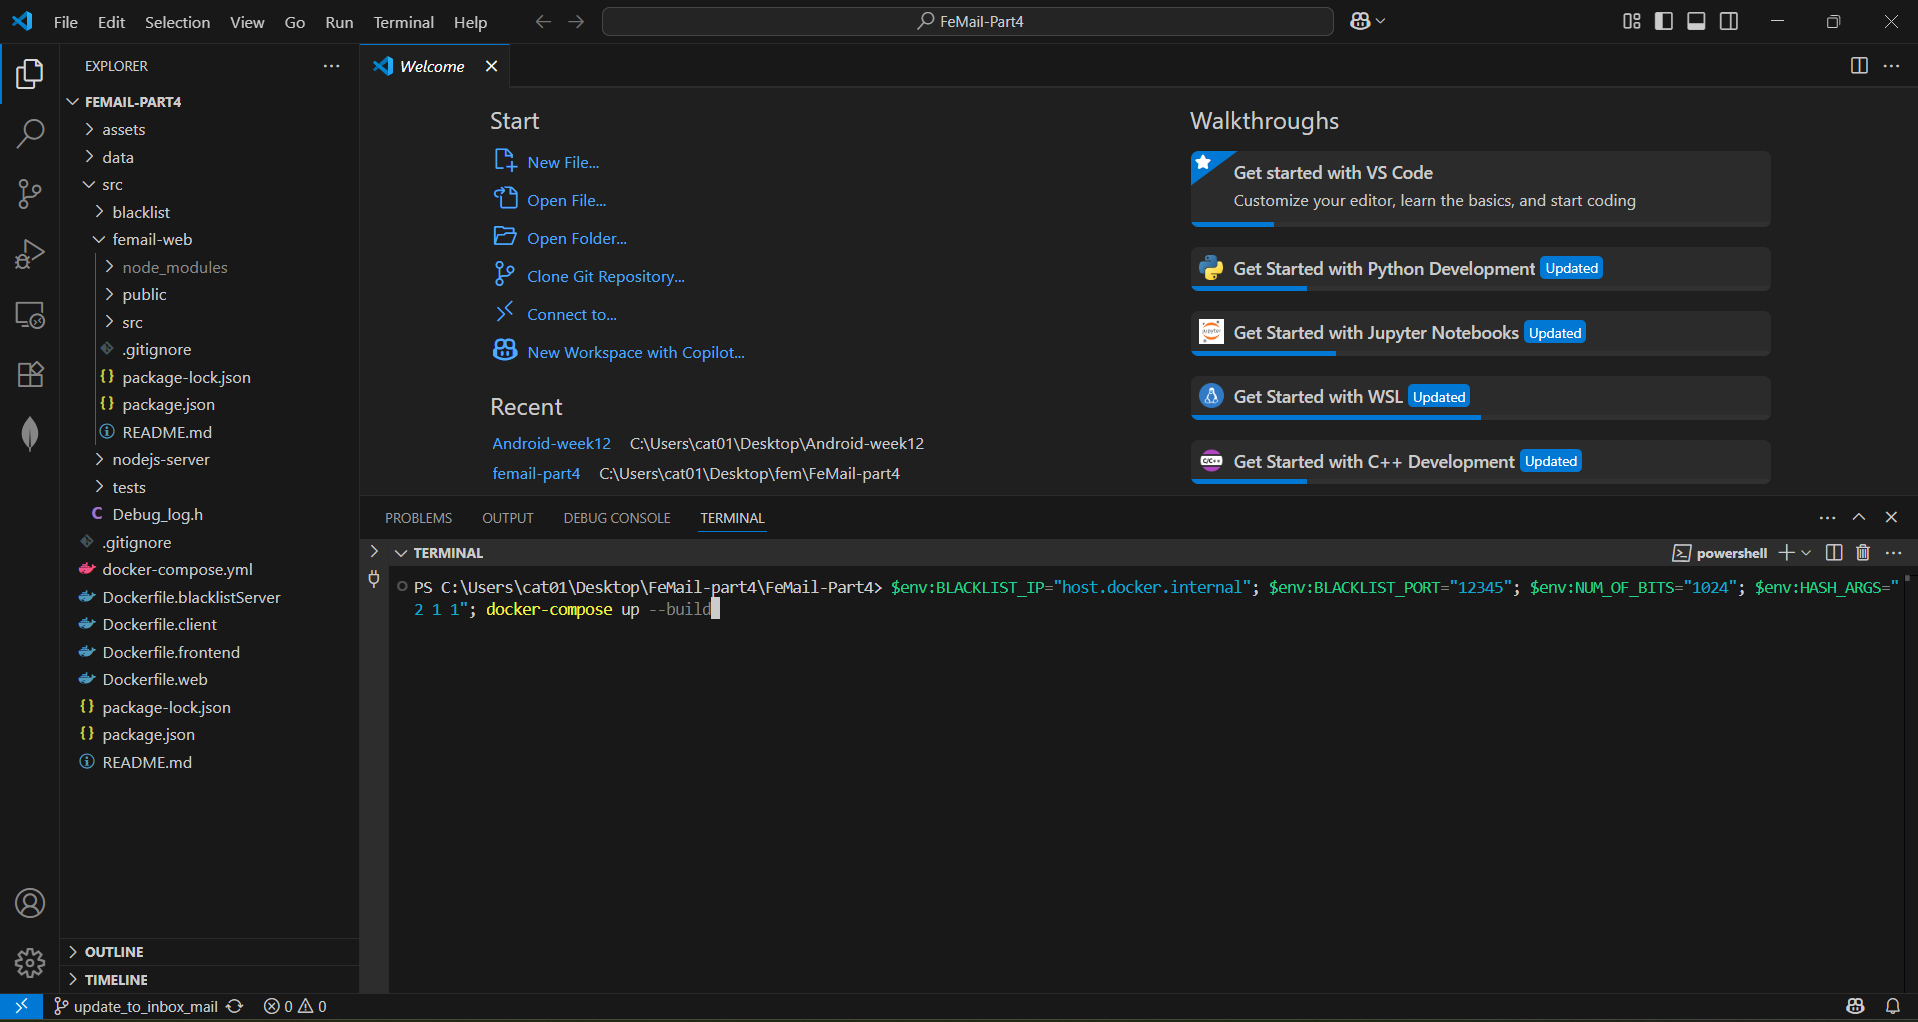
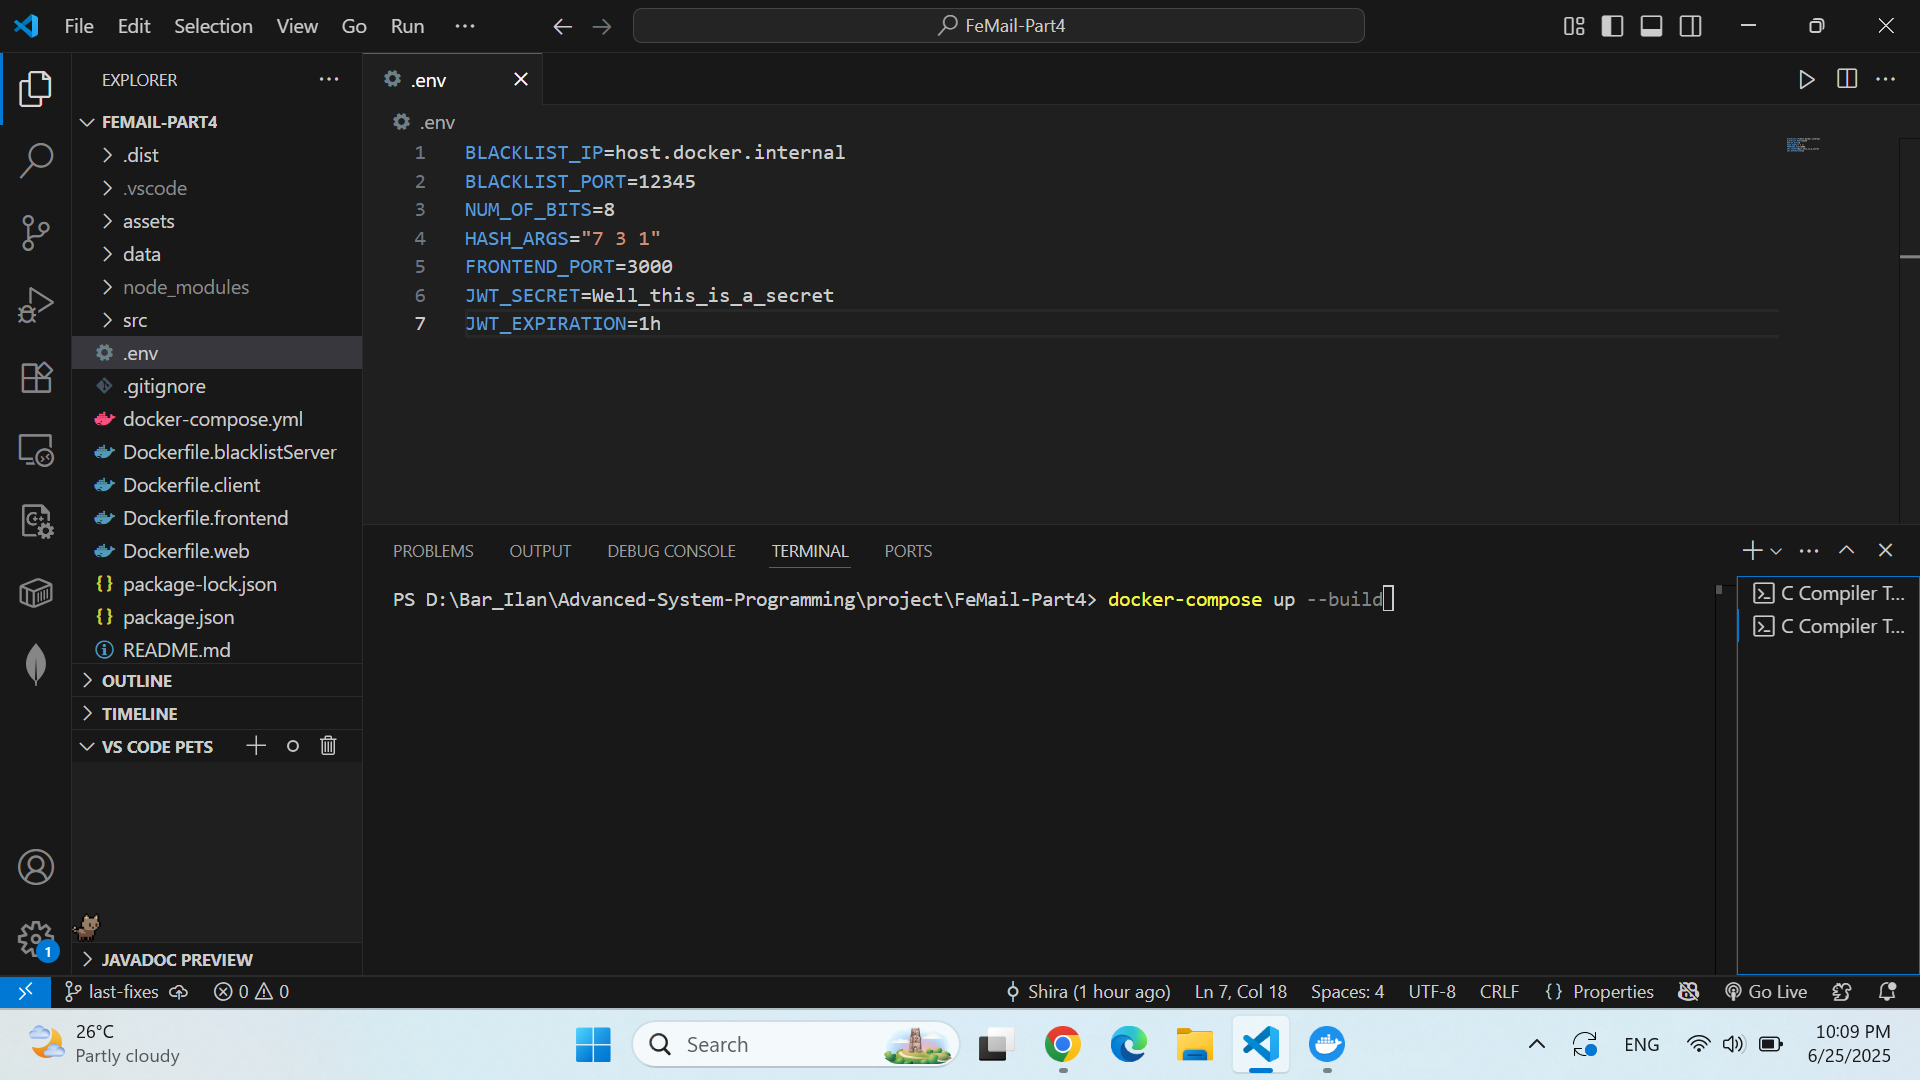
copy files from part 4

diff --git a/src/femail-web/src/popUps/CreateLabel/CreateLabel.js b/src/femail-web/src/popUps/CreateLabel/CreateLabel.js
@@ -4,7 +4,7 @@ import '../../components/PopUp/CreateEditLabel.css';
 import Button from '../../components/Button/Button';
 import { postLabel } from "../../hooks/useLabels";
 
-const CreateLabel = ({ show, onClose, setLabels, labels }) => {
+const CreateLabel = ({ show, onClose, setLabels, labels, onMoveTo = null }) => {
     const token = localStorage.getItem("token");
     const userId = localStorage.getItem("userId");
     const [labelName, setLabelName] = useState("");
@@ -14,6 +14,24 @@ const CreateLabel = ({ show, onClose, setLabels, labels }) => {
         if (!Array.isArray(labels)) return false;
         return labels.some(label => label.name.toLowerCase() === labelName.trim().toLowerCase());
     }, []);
+
+    const handleCreate = async () => {
+        const newLabel = await postLabel(
+            token,
+            userId,
+            setLabels,
+            labelName,
+            setLabelName,
+            setError
+        );
+        console.log(onMoveTo);
+        console.log(newLabel?.id);
+        if (onMoveTo && newLabel?.id) {
+            onMoveTo(newLabel.id);
+        }
+        onClose();
+    };
+
 
     const isDisabled = useMemo(() => {
         return !labelName.trim() || labelExists(labels, labelName);
@@ -49,7 +67,7 @@ const CreateLabel = ({ show, onClose, setLabels, labels }) => {
                         variant = 'grey'>
                         Cancel
                     </Button>
-                    <Button onClick={() => {postLabel(token, userId, setLabels, labelName, setLabelName, setError); onClose();}}
+                    <Button onClick={() => {handleCreate()}}
                         variant = 'blue'
                         disabled={isDisabled}>
                         Create

diff --git a/src/nodejs-server/app.js b/src/nodejs-server/app.js
@@ -6,7 +6,7 @@ const cors = require('cors');
 
 // Get user arguments
 const args = process.argv.slice(2);
-const PORT = 8080;
+const port = args[0];
 
 // Middleware to parse incoming JSON requests with increased size limit
 app.use(express.json({ limit: '50mb' }));
@@ -31,4 +31,4 @@ app.use('/api/blacklist', blacklistRoutes);  // For blacklist-related endpoints
 app.use('/uploads', express.static(path.join(__dirname, 'uploads')));
 
 // Start the server and listen for requests
-app.listen(PORT, () => {});
+app.listen(port, () => {});

diff --git a/src/femail-web/src/components/MailActionBar/MailActionBar.js b/src/femail-web/src/components/MailActionBar/MailActionBar.js
@@ -143,7 +143,7 @@ const MailActionBar = ({
           </div>
         )}
       </div>
-      <CreateLabel show={showCreateLabel} onClose={() => setCreateLabel(false)} setLabels={setLabels} labels={labels} />
+      <CreateLabel show={showCreateLabel} onClose={() => setCreateLabel(false)} setLabels={setLabels} labels={labels} onMoveTo={onMoveTo} />
     </div>
   );
 };

diff --git a/src/femail-web/src/hooks/useLabels.js b/src/femail-web/src/hooks/useLabels.js
@@ -42,6 +42,7 @@ export const postLabel = async (token, userId, setLabels, labelName, setLabelNam
     if (id) {
       setLabels((prev) => [...prev, {id: id, name: labelName}]);
       setLabelName("");
+      return { id };
     }
     else
       setError("error");

diff --git a/README.md b/README.md
@@ -62,48 +62,34 @@ The frontend is entirely dynamic and **does not use any hardcoded content**. All
 
 ## Run the Project (starting in FeMail-Part4 directory)
 1. Open Docker Desktop in your computer
-2. Run the app using docker-compose
-    * If the blacklist server is on localhost:
-      * On Linux:
-        ```bash
-        BLACKLIST_IP=host.docker.internal BLACKLIST_PORT=<blacklist_port> NUM_OF_BITS=<num_of_bits> HASH_ARGS="<hash1> <hash2> ..." docker-compose up --build
-        ```
-      * On Windows:
-        ```bash
-        $env:BLACKLIST_IP="host.docker.internal"; $env:BLACKLIST_PORT="<blacklist_port>"; $env:NUM_OF_BITS="<num_of_bits>"; $env:HASH_ARGS="<hash1> <hash2> ..."; docker-compose up --build
-        ```
-    * If the blacklist server is on another machine:
-      * On Linux:
-        ```bash
-        BLACKLIST_IP=<blacklist_ip> BLACKLIST_PORT=<blacklist_port> NUM_OF_BITS=<num_of_bits> HASH_ARGS="<hash1> <hash2> ..." docker-compose up --build
-        ```
-      * On Windows:
-        ```bash
-        $env:BLACKLIST_IP="<blacklist_ip>"; $env:BLACKLIST_PORT="<blacklist_port>"; $env:NUM_OF_BITS="<num_of_bits>"; $env:HASH_ARGS="<hash1> <hash2> ..."; docker-compose up --build
-        ```
+2. Change .env file as you wish<br>
     **Fields explanation**
-    * Put your fields instead of the <...>
-    * All fields are mendetory
+    * All fields are mendetory, don't delete any of the given fields
     * The fields:
       * BLACKLIST_IP - The ip that the blacklist server is running on
-        * Find your ip:<br>
+        * If the blacklist server is on localhost use host.docker.internal
+        * Else, find your ip:<br>
         'hostname -l' command on Linux<br>
         'ipconfig' command on Windows
       * BLACKLIST_PORT - The wanted port you want the blacklist server to run on
       * NUM_OF_BITS - The number of bits for the Bloom filter array
       * HASH_ARGS - Series of numbers that describe the hash (as many hashes as you want)
-    
+      * FRONTEND_PORT - The wanted port you want the frontend to run on
+3. Run the app using docker-compose (Both on Linux and Windows)
+    ```bash
+    docker-compose up --build
+    ```
     **Clarifications**
-    * The Node.js (web) server runs on port 8080, and the React app runs on port 3000.
-    * Please make sure that both ports **8080** and **3000** are available on your machine (i.e., not used by other applications or blocked by firewall)
-    * Do not include the '<' '>' or '...' symbols in your command
-3. Wait for Docker Compose to finish starting all the containers (blacklistserver, web. frontend)  
-   Once everything is up, you’ll see the message:  
+    * The Node.js (web) server runs on port 8080.
+    * Please make sure that this port **8080** is available on your machine (i.e., not used by other applications or blocked by firewall) and don't use this port in the .env file
+4. Wait for Docker Compose to finish starting all the containers (blacklistserver, web. frontend)  
+   Once everything is up, you’ll see the message:
    "webpack compiled successfully" — indicating that the app is ready
-4. Open your browser and go to:  
-   - `http://localhost:3000` — to access the web app from your local machine  
-   - Or `http://<your-ip>:3000` — to access it from another device on the same network
-5. You can now start using the full application
+5. Open your browser and go to:
+   - `http://localhost:FRONTEND_PORT` — to access the web app from your local machine  
+   - Or `http://<your-ip>:FRONTEND_PORT` — to access it from another device on the same network
+   * FRONTEND_PORT is the same port as part 2 in the current secrion (section 'Run the Project')
+6. You can now start using the full application
 
 ## Known Limitations
 * Data is stored in-memory, no persistence on server restart (except blacklist URLs)
